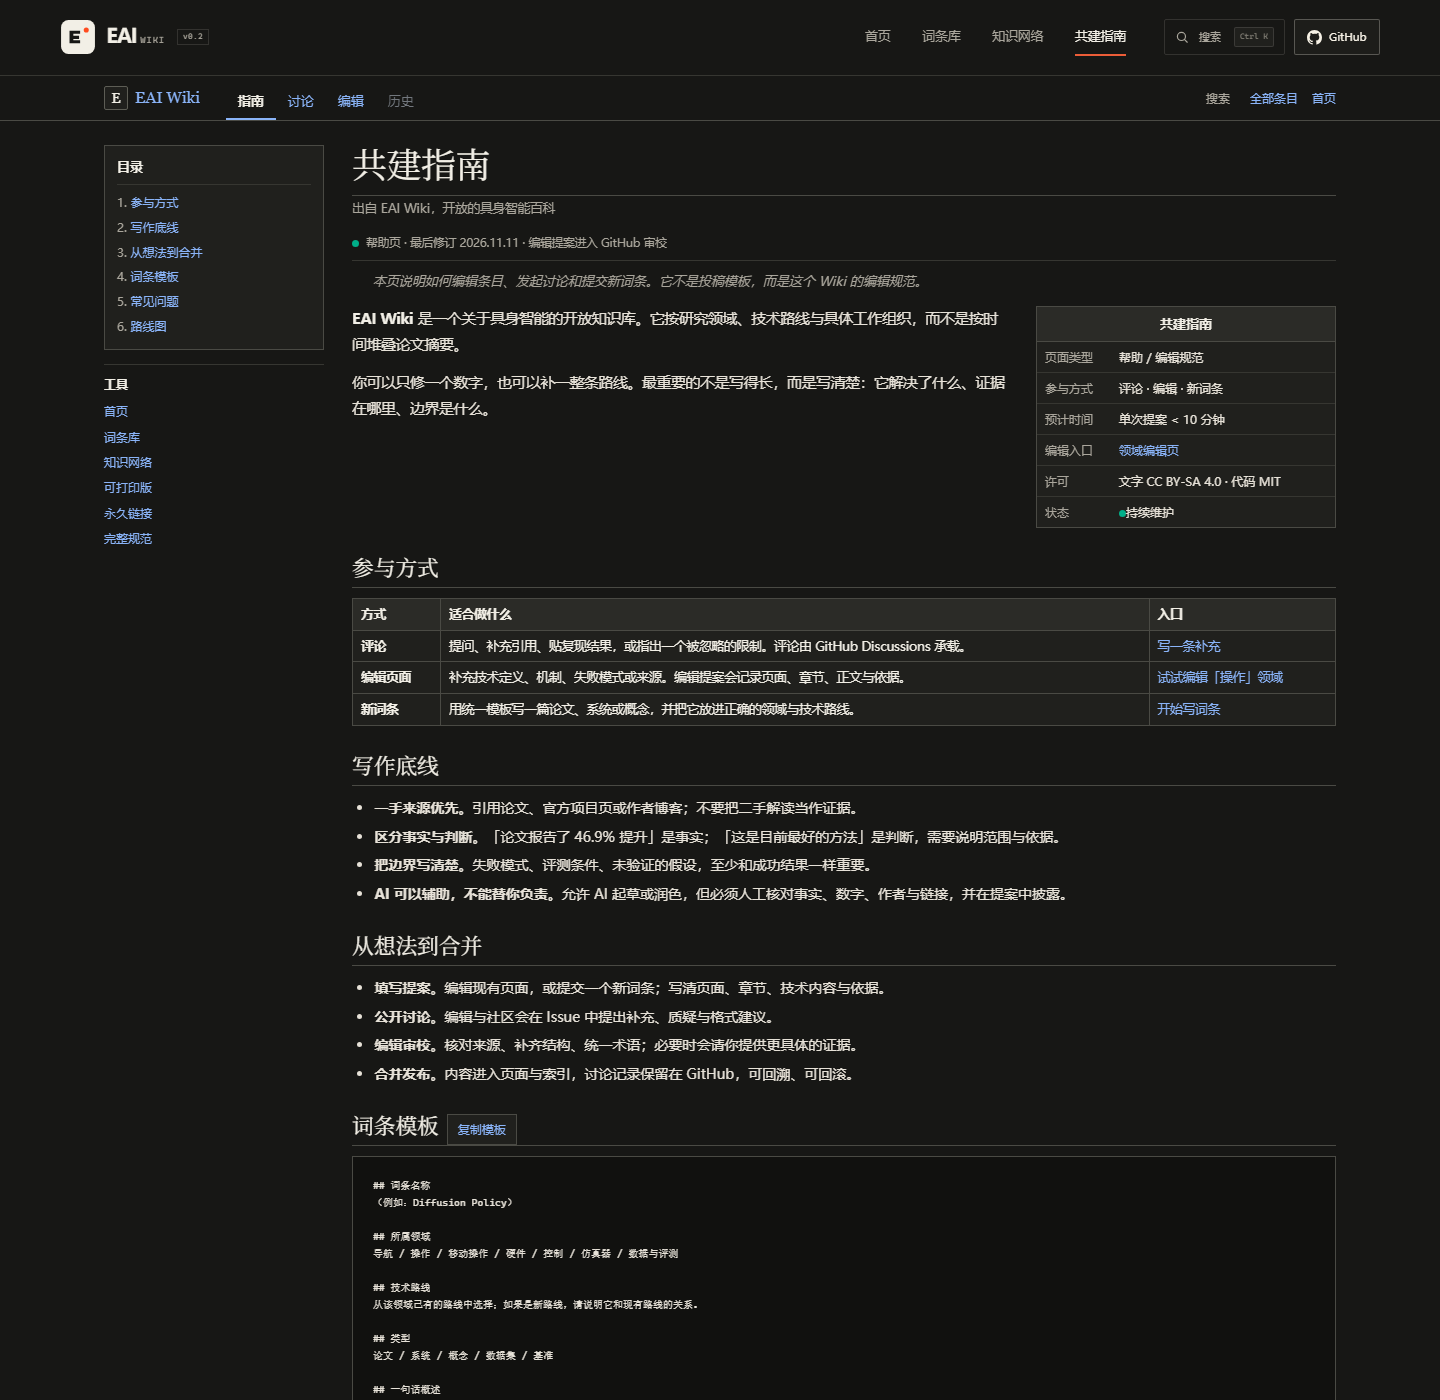
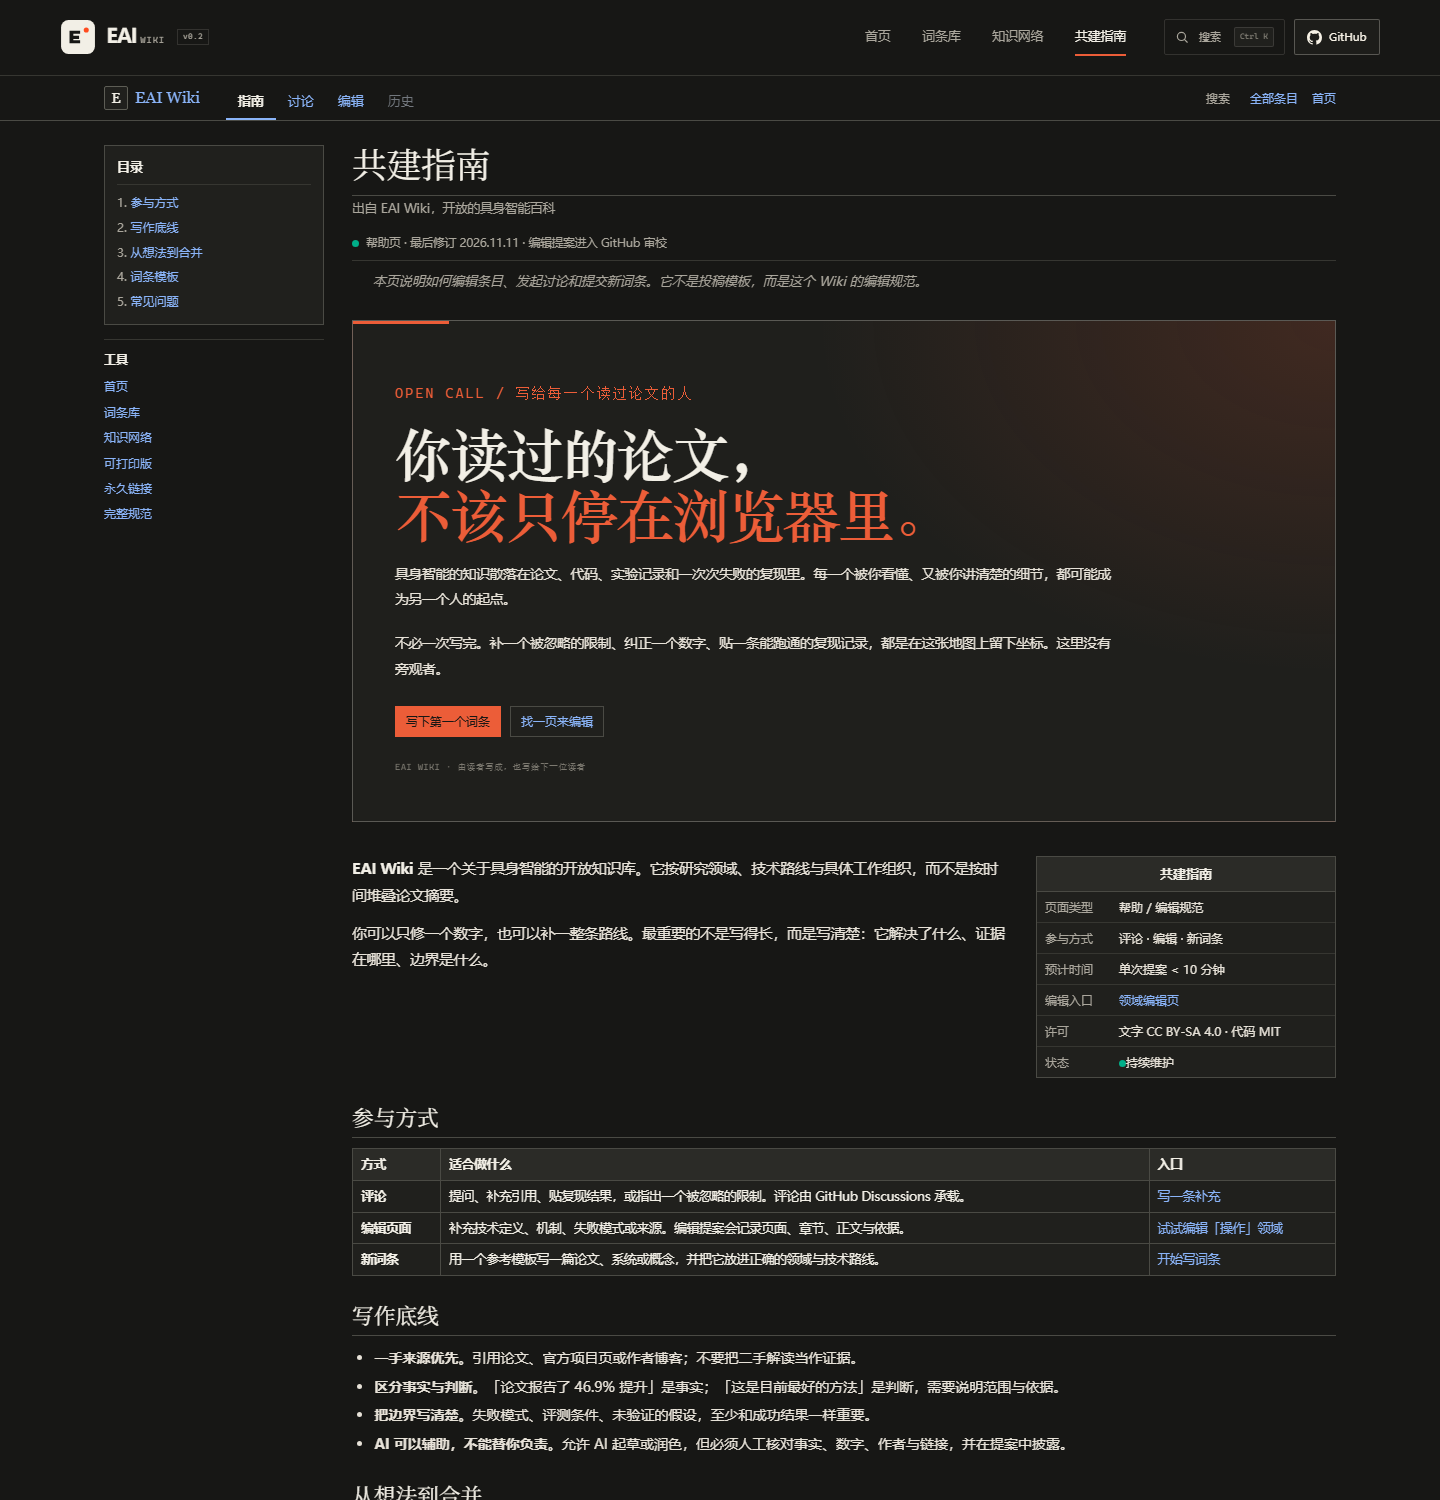
docs: refresh contribution guide

diff --git a/assets/js/app.js b/assets/js/app.js
@@ -2262,7 +2262,6 @@ ${DOMAINS.map(domain => domain.name).join(" / ")}
                   <li><button type="button" data-scroll-target="contribute-process">从想法到合并</button></li>
                   <li><button type="button" data-scroll-target="contribute-template">词条模板</button></li>
                   <li><button type="button" data-scroll-target="contribute-faq">常见问题</button></li>
-                  <li><button type="button" data-scroll-target="contribute-roadmap">路线图</button></li>
                 </ol>
               </nav>
               <div class="wiki-tools">
@@ -2284,6 +2283,18 @@ ${DOMAINS.map(domain => domain.name).join(" / ")}
                 帮助页 · 最后修订 ${formatDate(CFG.updated || "2026-11-11")} · 编辑提案进入 GitHub 审校
               </div>
               <div class="wiki-hatnote">本页说明如何编辑条目、发起讨论和提交新词条。它不是投稿模板，而是这个 Wiki 的编辑规范。</div>
+
+              <section class="contribute-invitation" aria-labelledby="contribute-invitation-title">
+                <p class="eyebrow">OPEN CALL / 写给每一个读过论文的人</p>
+                <h2 id="contribute-invitation-title">你读过的论文，<br><em>不该只停在浏览器里。</em></h2>
+                <p>具身智能的知识散落在论文、代码、实验记录和一次次失败的复现里。每一个被你看懂、又被你讲清楚的细节，都可能成为另一个人的起点。</p>
+                <p>不必一次写完。补一个被忽略的限制、纠正一个数字、贴一条能跑通的复现记录，都是在这张地图上留下坐标。这里没有旁观者。</p>
+                <div class="contribute-invitation-actions">
+                  <button class="wiki-button wiki-button--primary" type="button" data-open-contribute>写下第一个词条</button>
+                  <a class="wiki-button" href="#/entries">找一页来编辑</a>
+                </div>
+                <p class="contribute-invitation-sign">EAI Wiki · 由读者写成，也写给下一位读者</p>
+              </section>
 
               <div class="wiki-lead-layout">
                 <div class="wiki-lead">
@@ -2308,7 +2319,6 @@ ${DOMAINS.map(domain => domain.name).join(" / ")}
                   <li><button type="button" data-scroll-target="contribute-process">从想法到合并</button></li>
                   <li><button type="button" data-scroll-target="contribute-template">词条模板</button></li>
                   <li><button type="button" data-scroll-target="contribute-faq">常见问题</button></li>
-                  <li><button type="button" data-scroll-target="contribute-roadmap">路线图</button></li>
                 </ol>
               </details>
 
@@ -2329,7 +2339,7 @@ ${DOMAINS.map(domain => domain.name).join(" / ")}
                     </tr>
                     <tr>
                       <td><strong>新词条</strong></td>
-                      <td>用统一模板写一篇论文、系统或概念，并把它放进正确的领域与技术路线。</td>
+                      <td>用一个参考模板写一篇论文、系统或概念，并把它放进正确的领域与技术路线。</td>
                       <td><button class="wiki-inline-button" type="button" data-open-contribute>开始写词条</button></td>
                     </tr>
                   </tbody>
@@ -2358,11 +2368,11 @@ ${DOMAINS.map(domain => domain.name).join(" / ")}
 
               <section class="wiki-section" id="contribute-template">
                 <div class="wiki-section-heading">
-                  <h2>词条模板</h2>
+                  <h2>词条模板（参考）</h2>
                   <button class="wiki-button" type="button" data-copy-template>复制模板</button>
                 </div>
+                <p class="wiki-source-note"><strong>模板仅供参考，不需要完全遵循这个格式。</strong>可以根据词条类型删减、合并或新增章节；哪怕只写一段有来源的判断，也比为了填满格式而编造更有价值。</p>
                 <pre class="code-block" id="entry-template"><code>${esc(template)}</code></pre>
-                <p class="wiki-source-note">不需要逐项填满。宁可少写，也不要为了完整而编造。</p>
               </section>
 
               <section class="wiki-section" id="contribute-faq">
@@ -2393,30 +2403,6 @@ ${DOMAINS.map(domain => domain.name).join(" / ")}
                     <p>除特别注明外，文字内容采用 CC BY-SA 4.0，代码采用 MIT。转载请署名并保持相同许可。论文图表与第三方素材的版权归原作者所有。</p>
                   </details>
                 </div>
-              </section>
-
-              <section class="wiki-section" id="contribute-roadmap">
-                <div class="wiki-section-heading"><h2>路线图</h2></div>
-                <table class="wikitable">
-                  <thead><tr><th>阶段</th><th>目标</th><th>状态</th></tr></thead>
-                  <tbody>
-                    <tr><td>v0.2 种子发布</td><td>${DOMAINS.length} 个领域、${TOTAL_ROUTES} 条技术路线、${ENTRIES.length} 个词条与 ${RESOURCES.length} 个数据/基准资源；等待领域编辑审校。</td><td>进行中</td></tr>
-                    <tr><td>v0.5 领域审校</td><td>为每个领域建立编辑小组，逐条核对引用、补充遗漏工作，加入失败案例与复现记录。</td><td>待开始</td></tr>
-                    <tr><td>v1.0 公共知识</td><td>稳定引用格式、版本记录、同行评议标签，以及和会议/课程/中文社区的交叉链接。</td><td>计划中</td></tr>
-                  </tbody>
-                </table>
-              </section>
-
-              <section class="wiki-section" id="contribute-checklist">
-                <div class="wiki-section-heading"><h2>提交前检查</h2></div>
-                <ul class="wiki-list">
-                  <li>一手来源链接可访问</li>
-                  <li>领域与技术路线已归位</li>
-                  <li>数字带有评测条件</li>
-                  <li>事实与判断已区分</li>
-                  <li>已说明 AI 参与程度</li>
-                </ul>
-                <p><button class="wiki-button wiki-button--primary" type="button" data-open-contribute>贡献一个词条</button> <a class="wiki-button" href="${repoFileUrl("CONTRIBUTING.md")}" target="_blank" rel="noopener">阅读完整规范</a></p>
               </section>
 
               ${articleCategories([

diff --git a/assets/css/styles.css b/assets/css/styles.css
@@ -4885,6 +4885,56 @@ body { color: var(--ink); }
 .view--contribute-wiki .faq-list details { border-color: var(--line); }
 .view--contribute-wiki .faq-list details p { color: #c9c4ba; }
 .view--contribute-wiki .code-block { background: #11110f; color: #e7e2d8; border-color: #4a4a44; }
+.contribute-invitation {
+  position: relative;
+  margin: 28px 0 34px;
+  padding: clamp(24px, 3.6vw, 42px);
+  border: 1px solid var(--line-strong);
+  background:
+    radial-gradient(120% 160% at 100% 0%, rgba(236, 93, 56, 0.16), transparent 44%),
+    #1f1f1c;
+  overflow: hidden;
+}
+.contribute-invitation::before {
+  content: "";
+  position: absolute;
+  top: 0;
+  left: 0;
+  width: 96px;
+  height: 3px;
+  background: var(--orange);
+}
+.contribute-invitation .eyebrow { color: var(--orange); margin-bottom: 14px; }
+.contribute-invitation h2 {
+  max-width: 800px;
+  margin: 0;
+  color: var(--ink);
+  font-family: var(--serif);
+  font-size: clamp(36px, 4.6vw, 58px);
+  font-weight: 500;
+  line-height: 1.06;
+  letter-spacing: -0.045em;
+}
+.contribute-invitation h2 em { color: var(--orange); font-style: normal; }
+.contribute-invitation p {
+  max-width: 720px;
+  margin-top: 18px;
+  color: #c9c4ba;
+  font-size: 13.5px;
+  line-height: 1.9;
+}
+.contribute-invitation-actions { display: flex; flex-wrap: wrap; gap: 9px; margin-top: 24px; }
+.contribute-invitation .contribute-invitation-sign {
+  margin-top: 22px;
+  color: var(--muted-light);
+  font-family: var(--mono);
+  font-size: 8.5px;
+  letter-spacing: 0.08em;
+  text-transform: uppercase;
+}
+@media (max-width: 590px) {
+  .contribute-invitation h2 { font-size: clamp(30px, 7.8vw, 36px); }
+}
 .site-footer { background: #11110f; color: var(--cream); }
 .site-footer::before { opacity: 0.9; }
 .marquee { background: #11110f; border-color: #2a2a26; color: var(--cream); }
